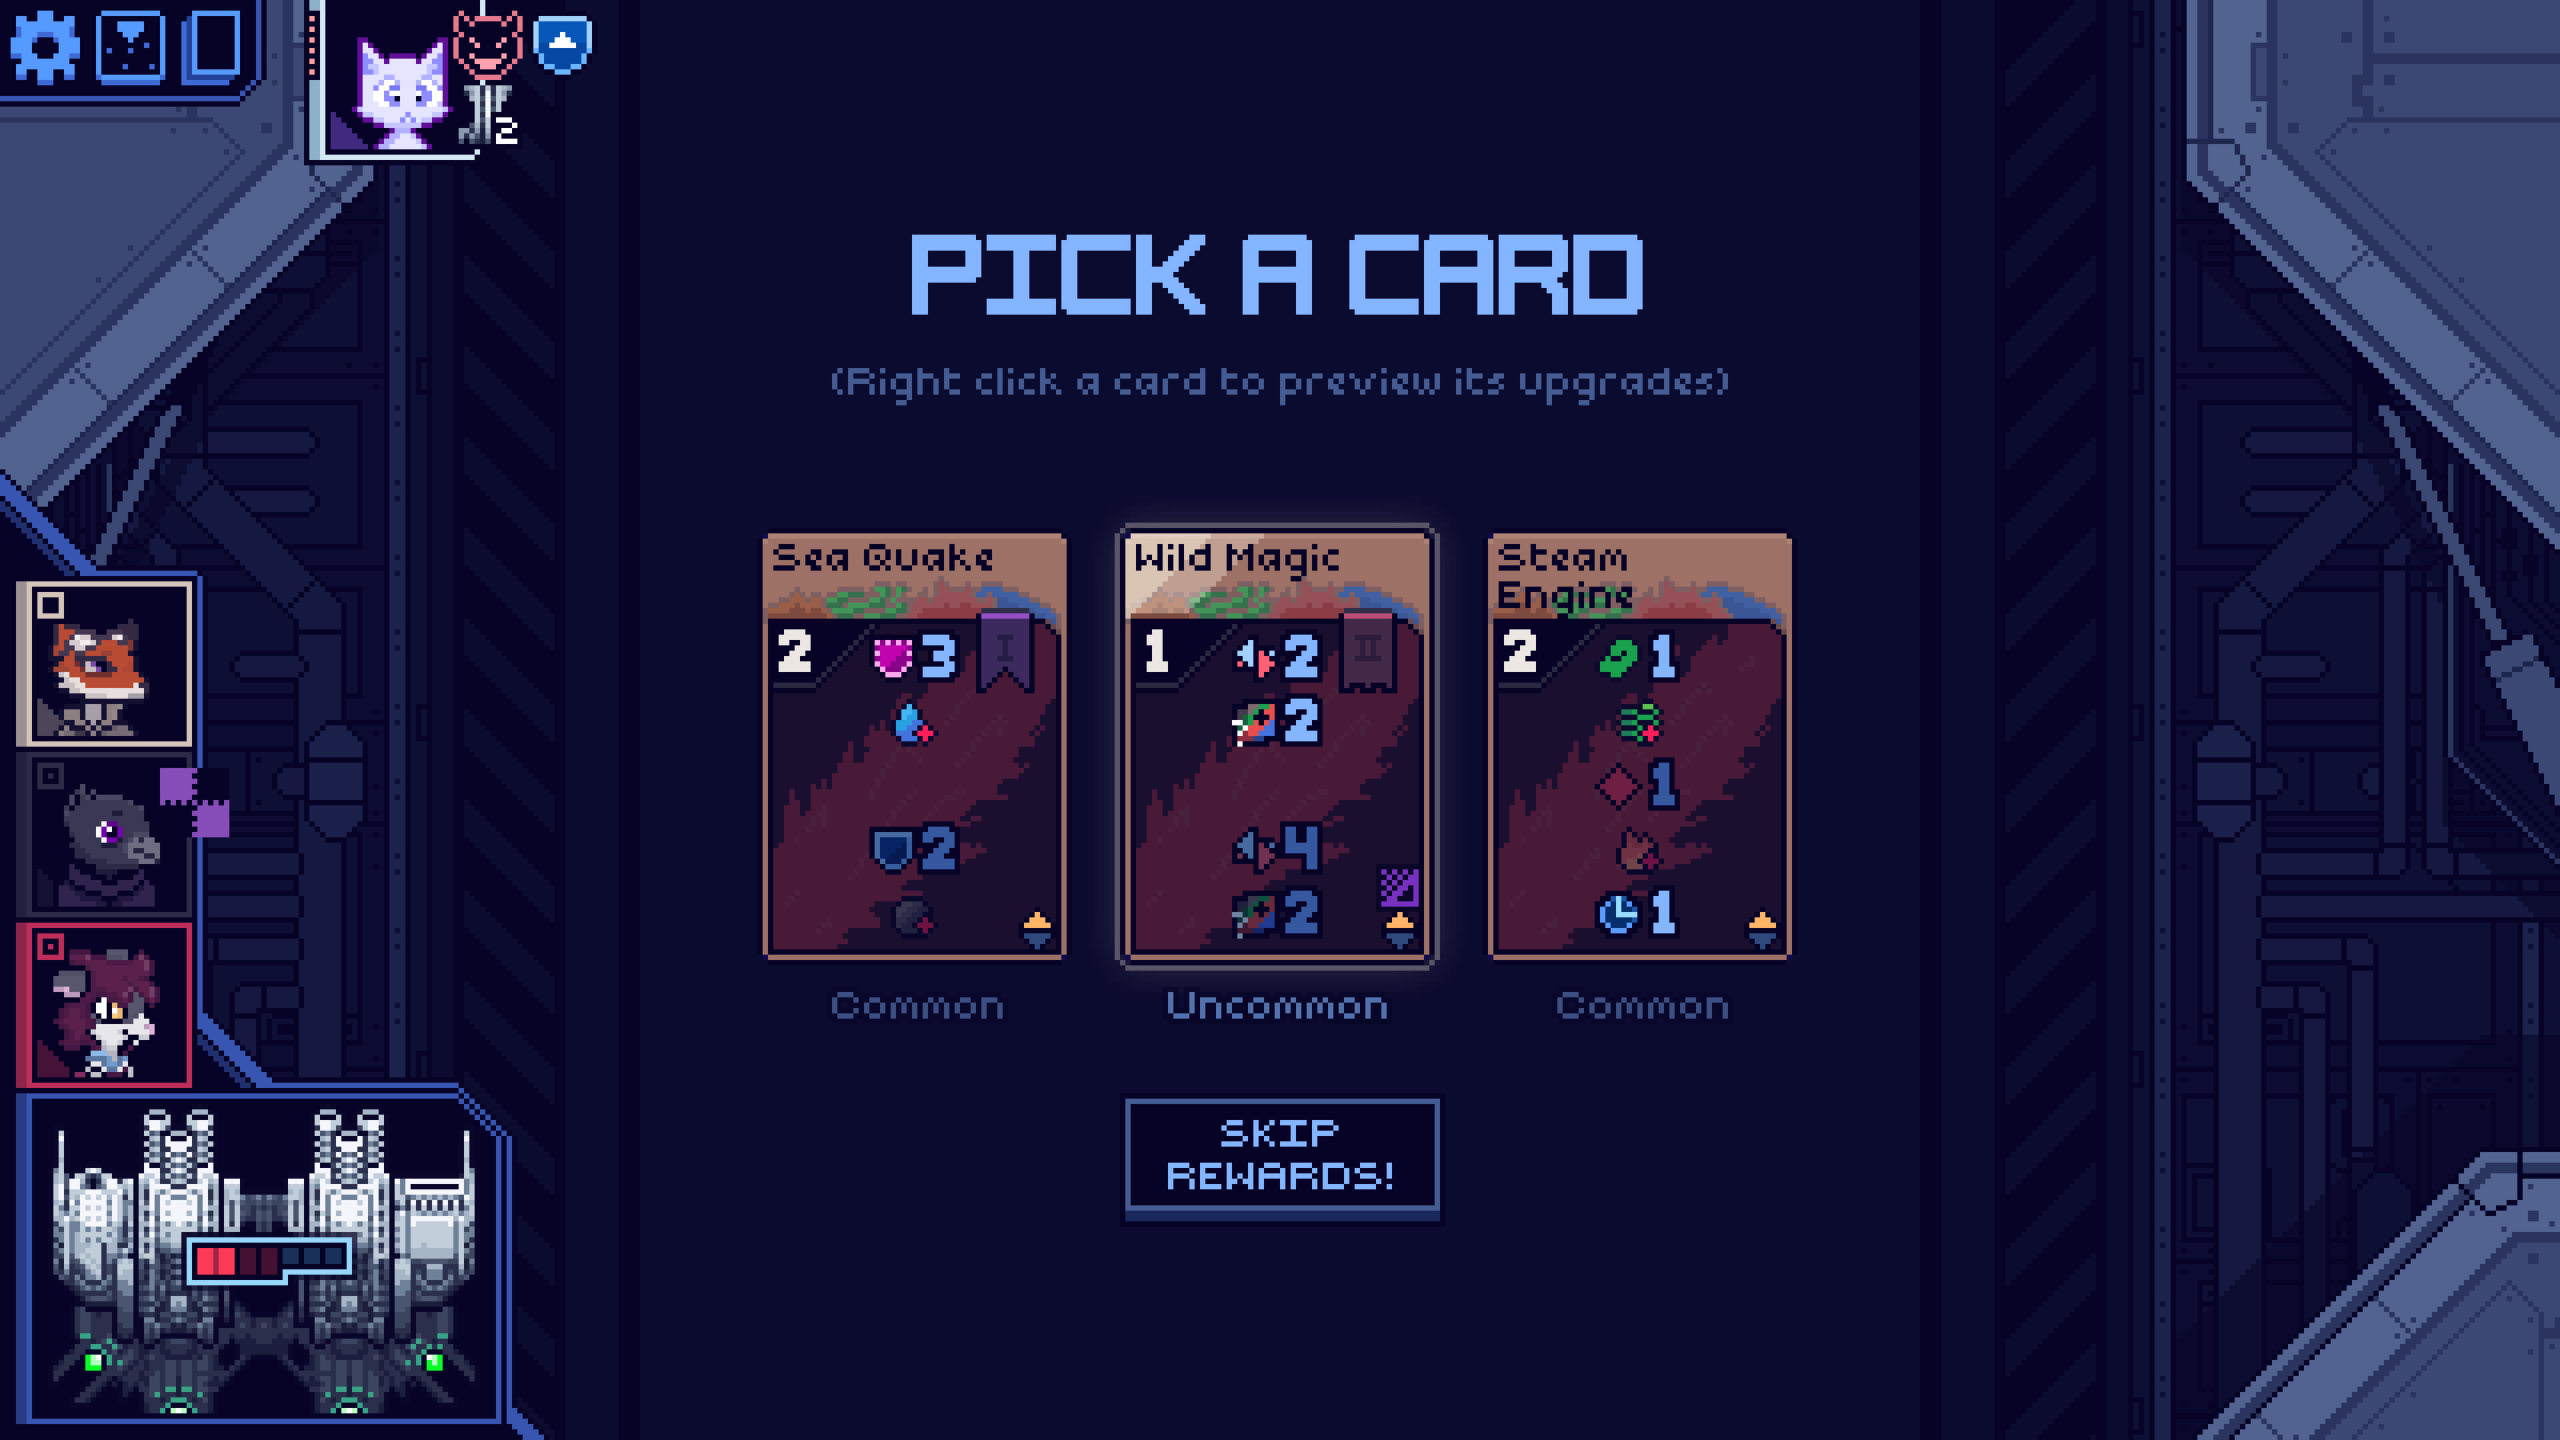
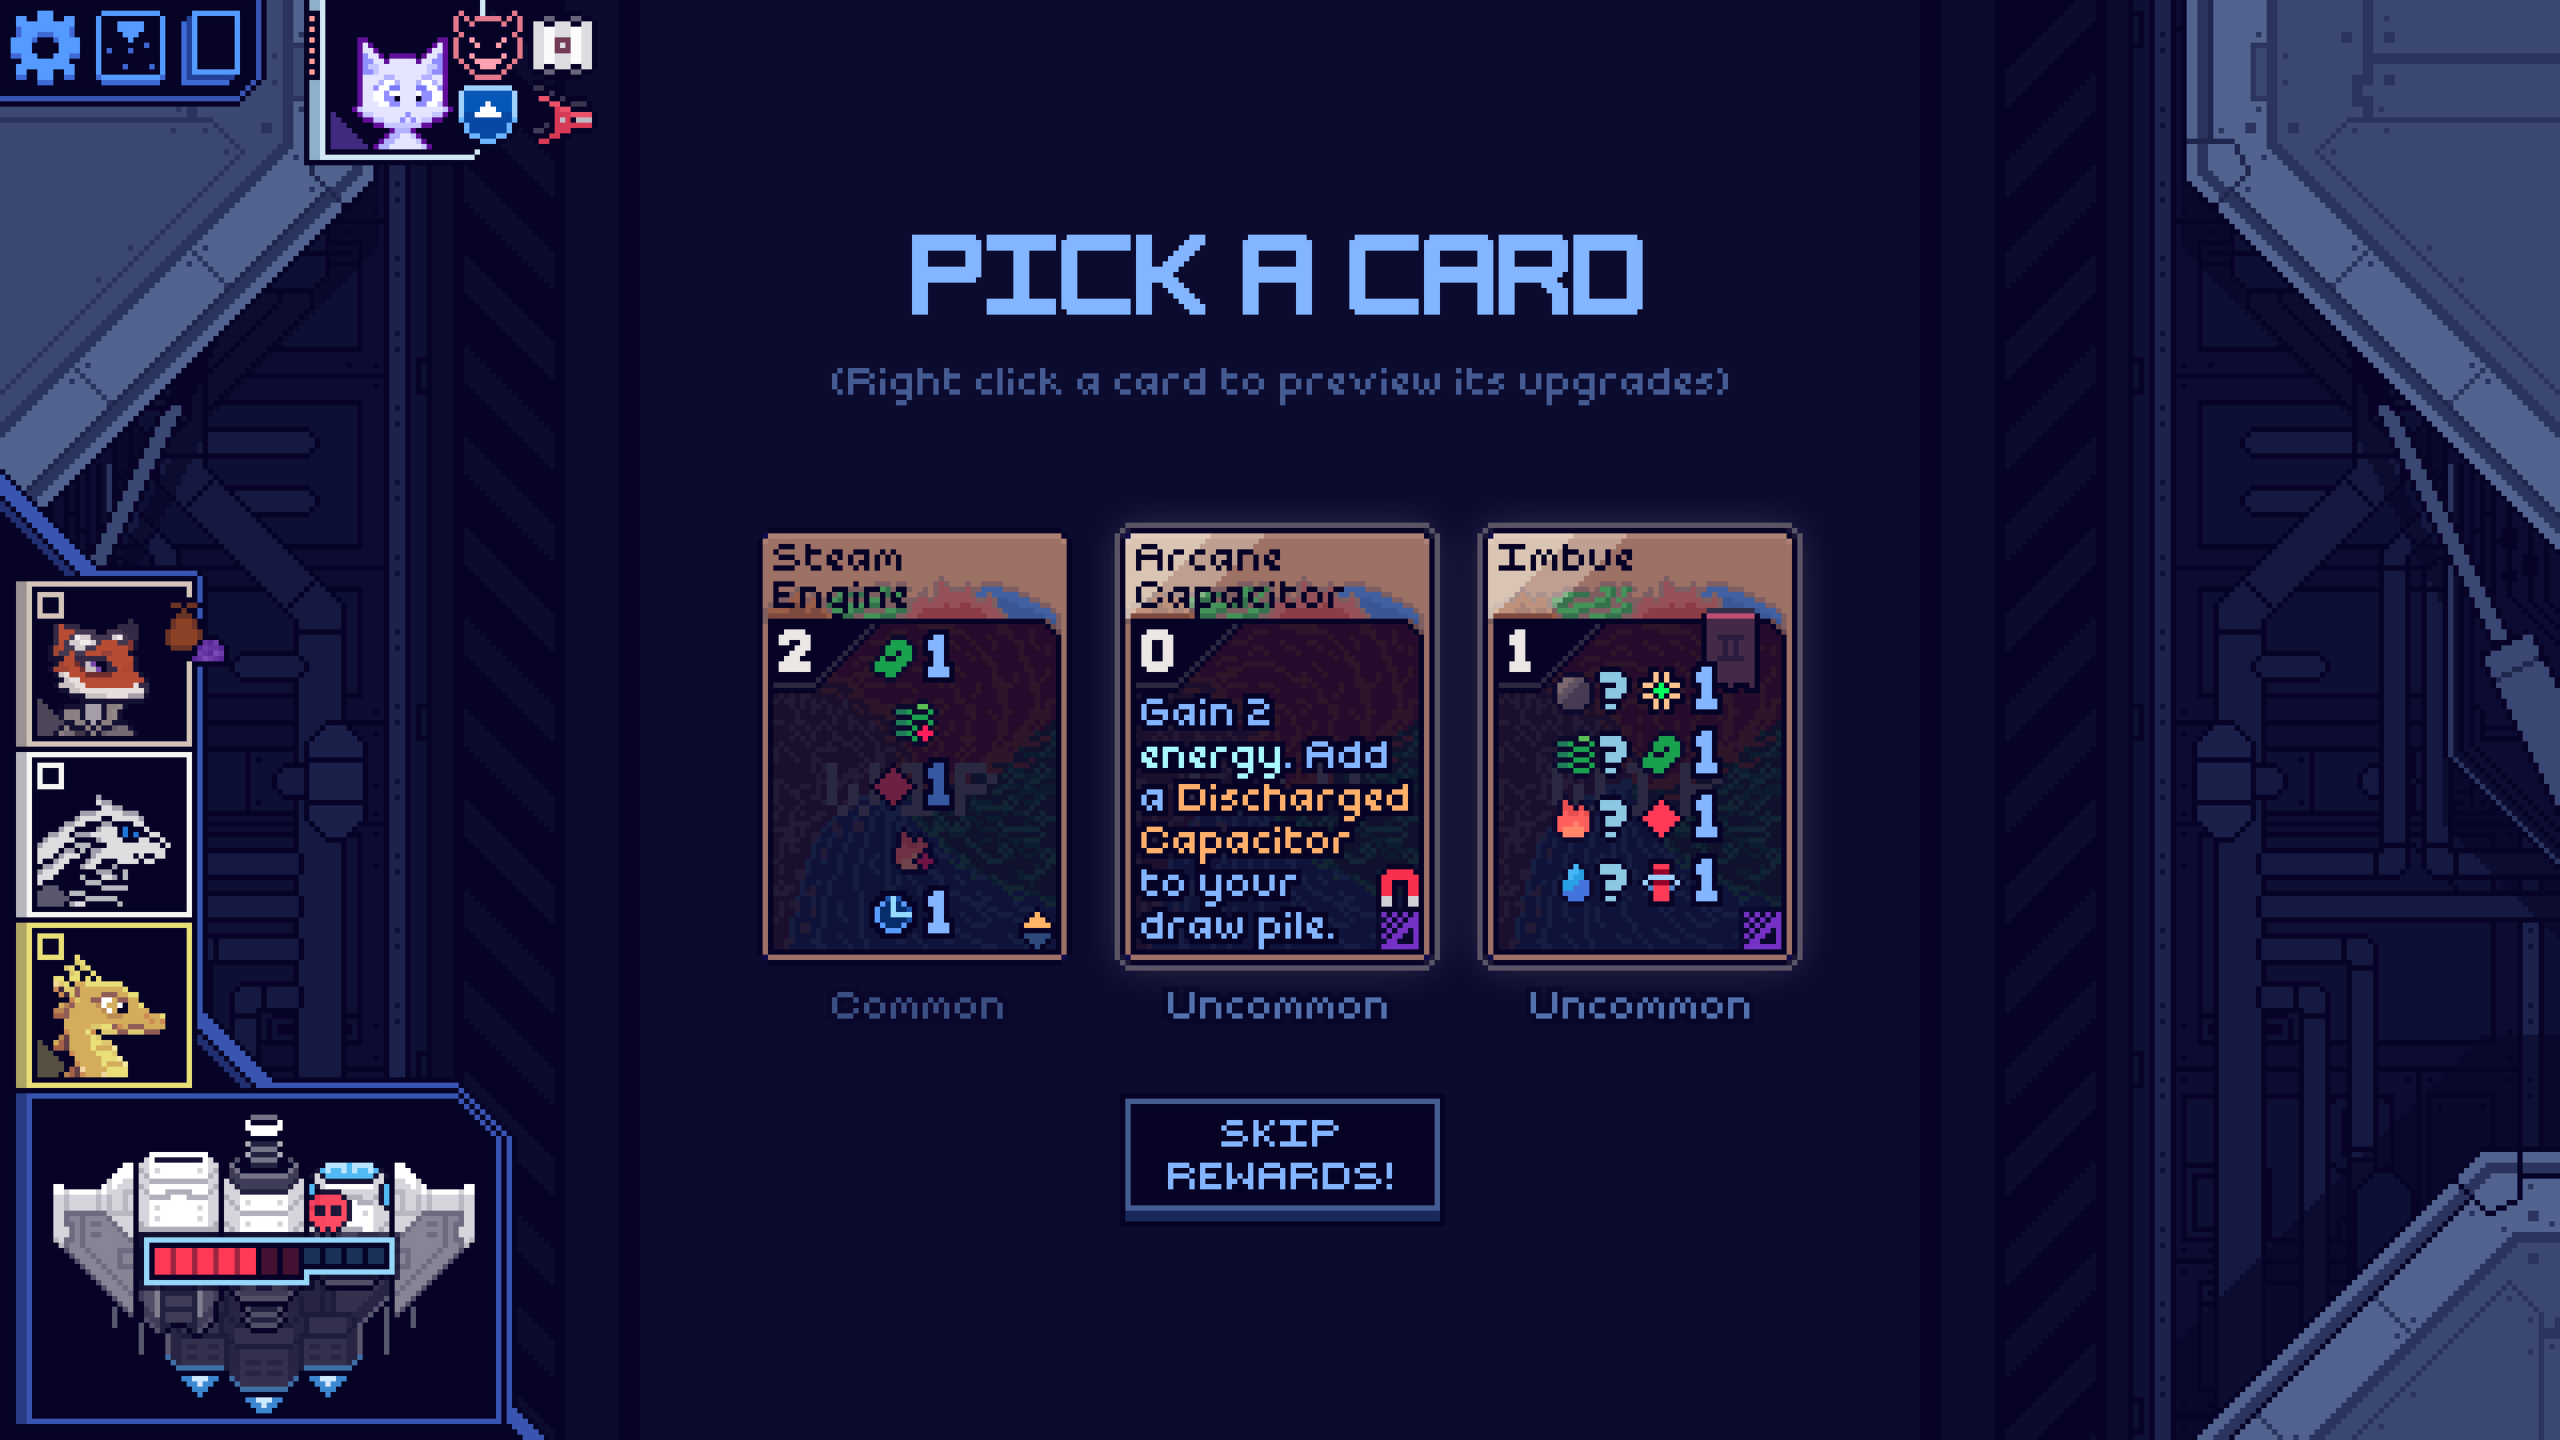
Update README.md

diff --git a/README.md b/README.md
@@ -15,21 +15,42 @@ This README was made using Louis3797's awesome-readme-template
 This mod adds the following:
 
 - <b>1</b> Character
-- <b>???</b> Cards
-  - <b>10/10</b> common
-  - <b>8/8</b> uncommon
-  - <b>6/6</b> rare
-  - <b>???</b> potions
-  - <b>10/10</b> generated cards
-  - <b>1/1</b> status
-  - <b>0/2</b> EXE cards
-- <b>???</b> Artifacts
-  - <b>???</b> common
-  - <b>???</b> boss
-- <b>1/1</b> Statuses
+- <b>66</b> Cards
+  - <b>10</b> common
+  - <b>8</b> uncommon
+  - <b>6</b> rare
+  - <b>30</b> potions
+  - <b>10</b> generated cards
+  - <b>1</b> status
+  - <b>1</b> EXE cards
+- <b>10</b> Artifacts
+  - <b>1</b> starter
+  - <b>6</b> common
+  - <b>3</b> boss
+- <b>4</b> Statuses
+
+Dialogue and card art to be added!
 
 # Content Infographics
 
+## Card List
+<img src="README_assets/infographics/Gizmo_Normal.png" alt="screenshot" width="auto" height="auto" />
+<img src="README_assets/infographics/Gizmo_A.png" alt="screenshot" width="auto" height="auto" />
+<img src="README_assets/infographics/Gizmo_B.png" alt="screenshot" width="auto" height="auto" />
+
+## Generated Cards
+<img src="README_assets/infographics/Gizmo_Generated_Normal.png" alt="screenshot" width="auto" height="auto" />
+<img src="README_assets/infographics/Gizmo_Generated_A.png" alt="screenshot" width="auto" height="auto" />
+<img src="README_assets/infographics/Gizmo_Generated_B.png" alt="screenshot" width="auto" height="auto" />
+
+## Potions
+<img src="README_assets/infographics/Gizmo_Potions.png" alt="screenshot" width="auto" height="auto" />
+
+## Artifacts
+<img src="README_assets/infographics/Gizmo_Artifacts.png" alt="screenshot" width="auto" height="auto" />
+
+## Tooltips
+<img src="README_assets/infographics/Gizmo_Tooltips.png" alt="screenshot" width="auto" height="auto" />
 
 # Screenshots
 
